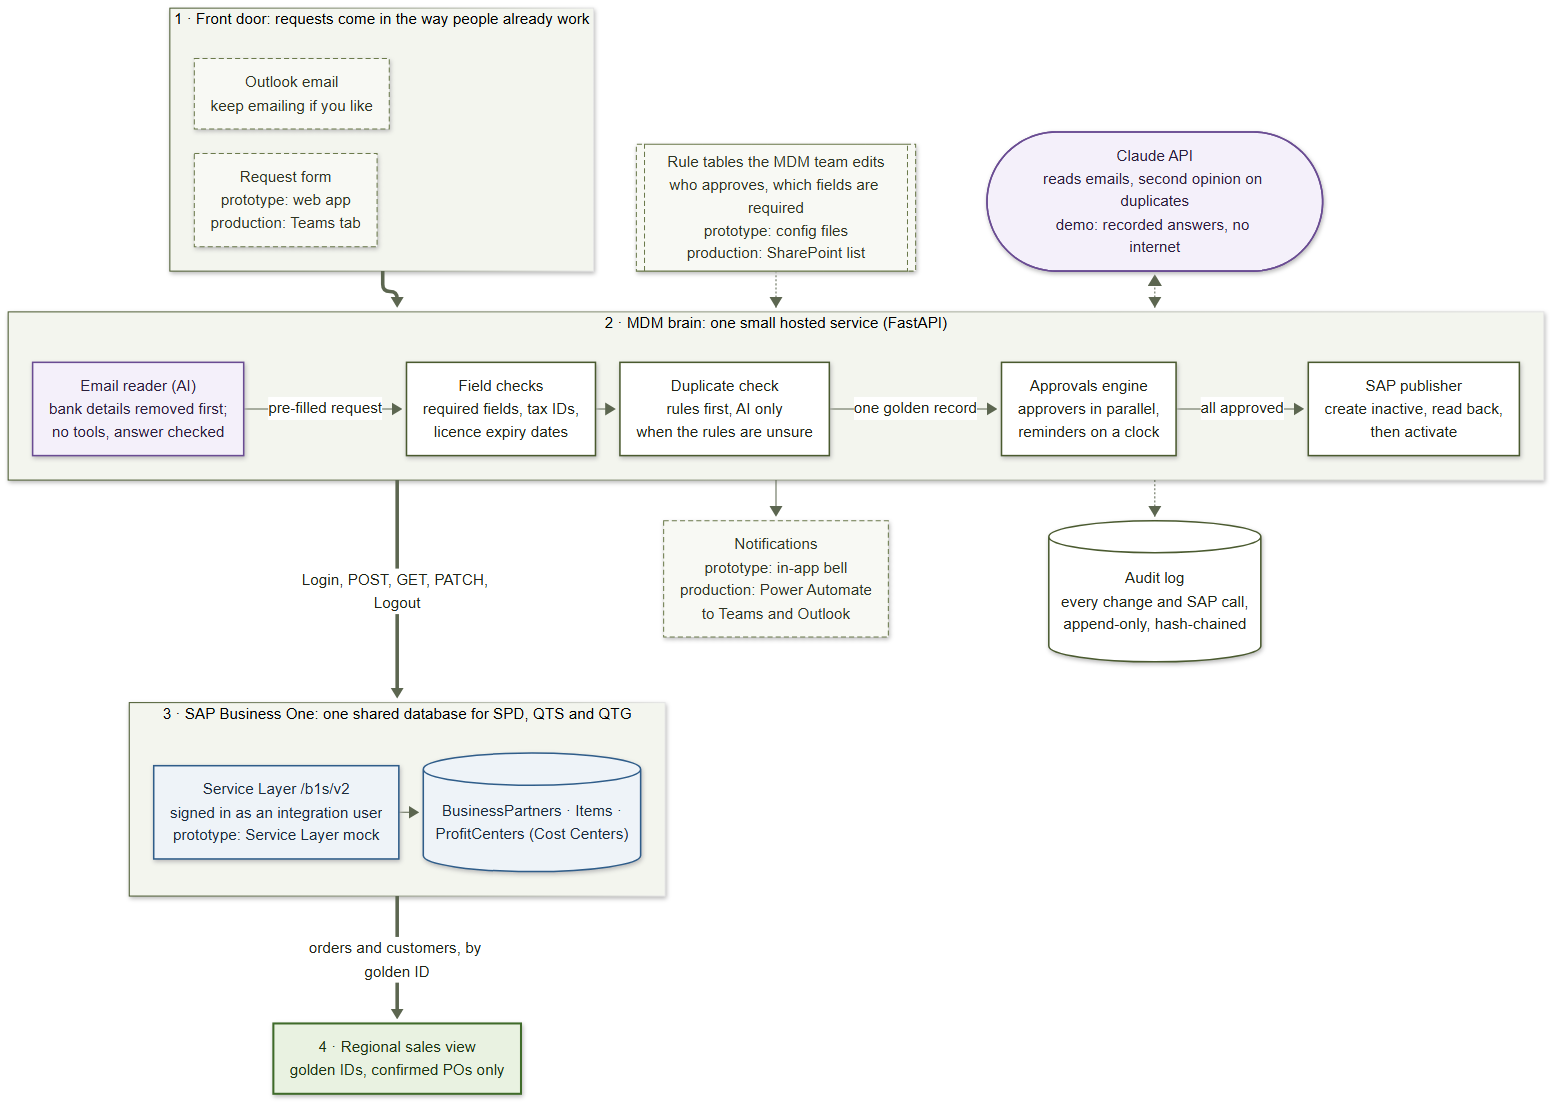
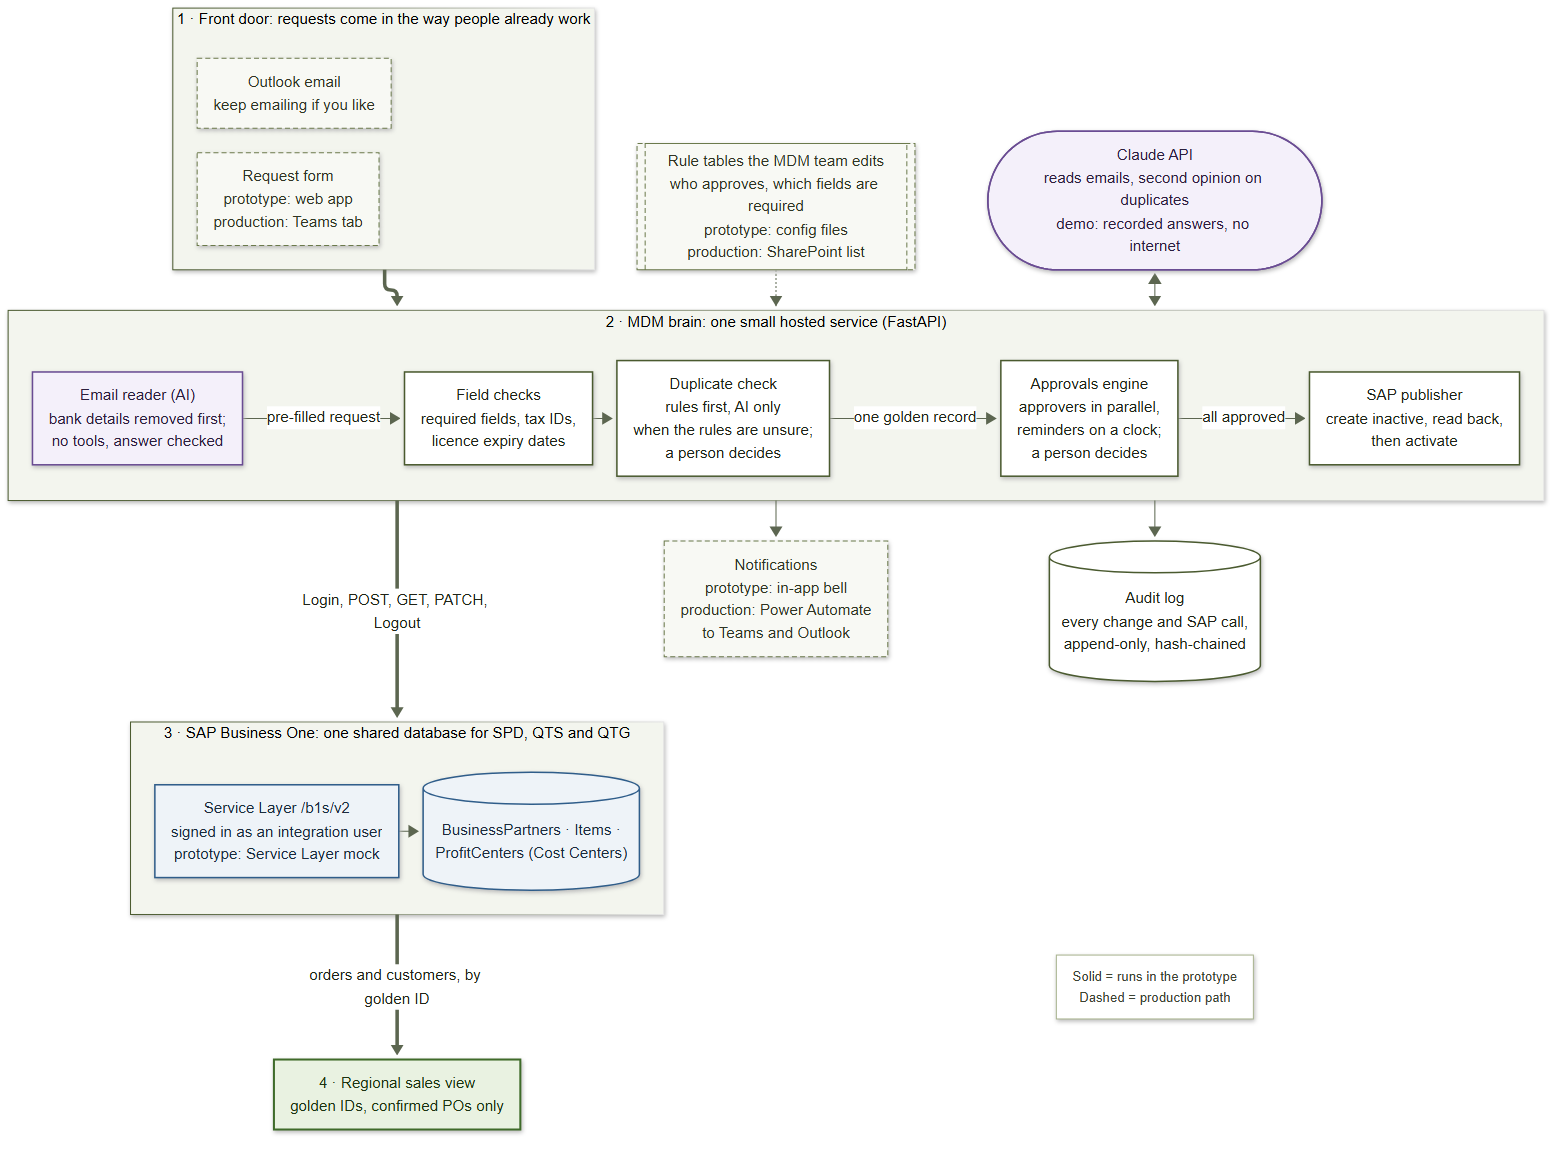
docs: architecture legend, solid audit/AI arrows, 'a person decides'; sequence labels clear of lifelines; PNGs at scale 2

diff --git a/README.md b/README.md
@@ -52,7 +52,7 @@ Every number comes from synthetic data and is regenerated by `make eval`. Full m
 
 ## How it connects to SAP Business One
 
-The prototype runs the dark-outlined boxes. Dashed boxes are the production path: each one names its prototype stand-in. A PNG of this diagram for slides is in [`docs/img/architecture.png`](docs/img/architecture.png).
+Solid boxes and arrows run in the prototype. Dashed ones are the production path, and each dashed box names its prototype stand-in (legend bottom right). A PNG of this diagram for slides is in [`docs/img/architecture.png`](docs/img/architecture.png).
 
 ```mermaid
 flowchart TB
@@ -69,8 +69,8 @@ flowchart TB
         direction LR
         INT["Email reader (AI)<br/>bank details removed first;<br/>no tools, answer checked"]
         CHECK["Field checks<br/>required fields, tax IDs,<br/>licence expiry dates"]
-        DUP["Duplicate check<br/>rules first, AI only<br/>when the rules are unsure"]
-        WF["Approvals engine<br/>approvers in parallel,<br/>reminders on a clock"]
+        DUP["Duplicate check<br/>rules first, AI only<br/>when the rules are unsure;<br/>a person decides"]
+        WF["Approvals engine<br/>approvers in parallel,<br/>reminders on a clock;<br/>a person decides"]
         PUB["SAP publisher<br/>create inactive, read back,<br/>then activate"]
         INT -->|pre-filled request| CHECK --> DUP -->|one golden record| WF -->|all approved| PUB
     end
@@ -88,11 +88,14 @@ flowchart TB
 
     DOOR ==> BRAIN
     RULES -.-> BRAIN
-    LLM <-.-> BRAIN
+    LLM <--> BRAIN
     BRAIN ==>|"Login, POST, GET, PATCH, Logout"| B1
     BRAIN --> NOTE
-    BRAIN -.-> AUD
+    BRAIN --> AUD
     B1 ==>|orders and customers, by golden ID| RV
+    LEGEND["Solid = runs in the prototype<br/>Dashed = production path"]
+    LGAP[ ]
+    AUD ~~~ LGAP ~~~ LEGEND
 
     classDef prod fill:#f8f9f4,stroke:#6b7a4b,stroke-width:1px,stroke-dasharray:5 3,color:#2f3524
     classDef core fill:#ffffff,stroke:#4a5a2f,stroke-width:1.5px,color:#1f2418
@@ -104,6 +107,9 @@ flowchart TB
     class INT,LLM ai
     class SL,DB sap
     class RV out
+    classDef legend fill:#ffffff,stroke:#a9b48f,stroke-width:1px,color:#3c4433,font-size:13px
+    class LEGEND legend
+    style LGAP fill:none,stroke:none
 ```
 
 **Going live does not need a new IT team.** The MDM team edits the rule tables (who approves, which fields are required) themselves. The one piece that needs outside help once is the hosted "MDM brain" service and its SAP connection: point it at the real Service Layer URL and give it an integration user (this needs SAP's indirect-access licence). People keep using Outlook and Teams.
@@ -124,13 +130,13 @@ sequenceDiagram
     PUB->>SL: POST /Login {CompanyDB, UserName, Password}
     SL-->>PUB: 200 SessionId, cookies B1SESSION + ROUTEID
     PUB->>AUD: sap_call: Login (password never logged)
-    PUB->>SL: POST /BusinessPartners {CardCode, CardName, ..., Frozen: tYES}
+    PUB->>SL: POST /BusinessPartners {CardCode, ..., Frozen: tYES}
     SL-->>PUB: 201 Created, record exists but is inactive
     PUB->>AUD: sap_call: POST (bank fields masked)
     PUB->>SL: GET /BusinessPartners('C00123')
     SL-->>PUB: 200 the record as SAP stored it
     PUB->>AUD: sap_call: GET
-    PUB->>PUB: Compare every field sent with every field read back
+    Note right of PUB: Compare every field sent with every field read back
     alt every field matches
         PUB->>SL: PATCH /BusinessPartners('C00123') {Frozen: tNO}
         SL-->>PUB: 204 No Content, record is now active
